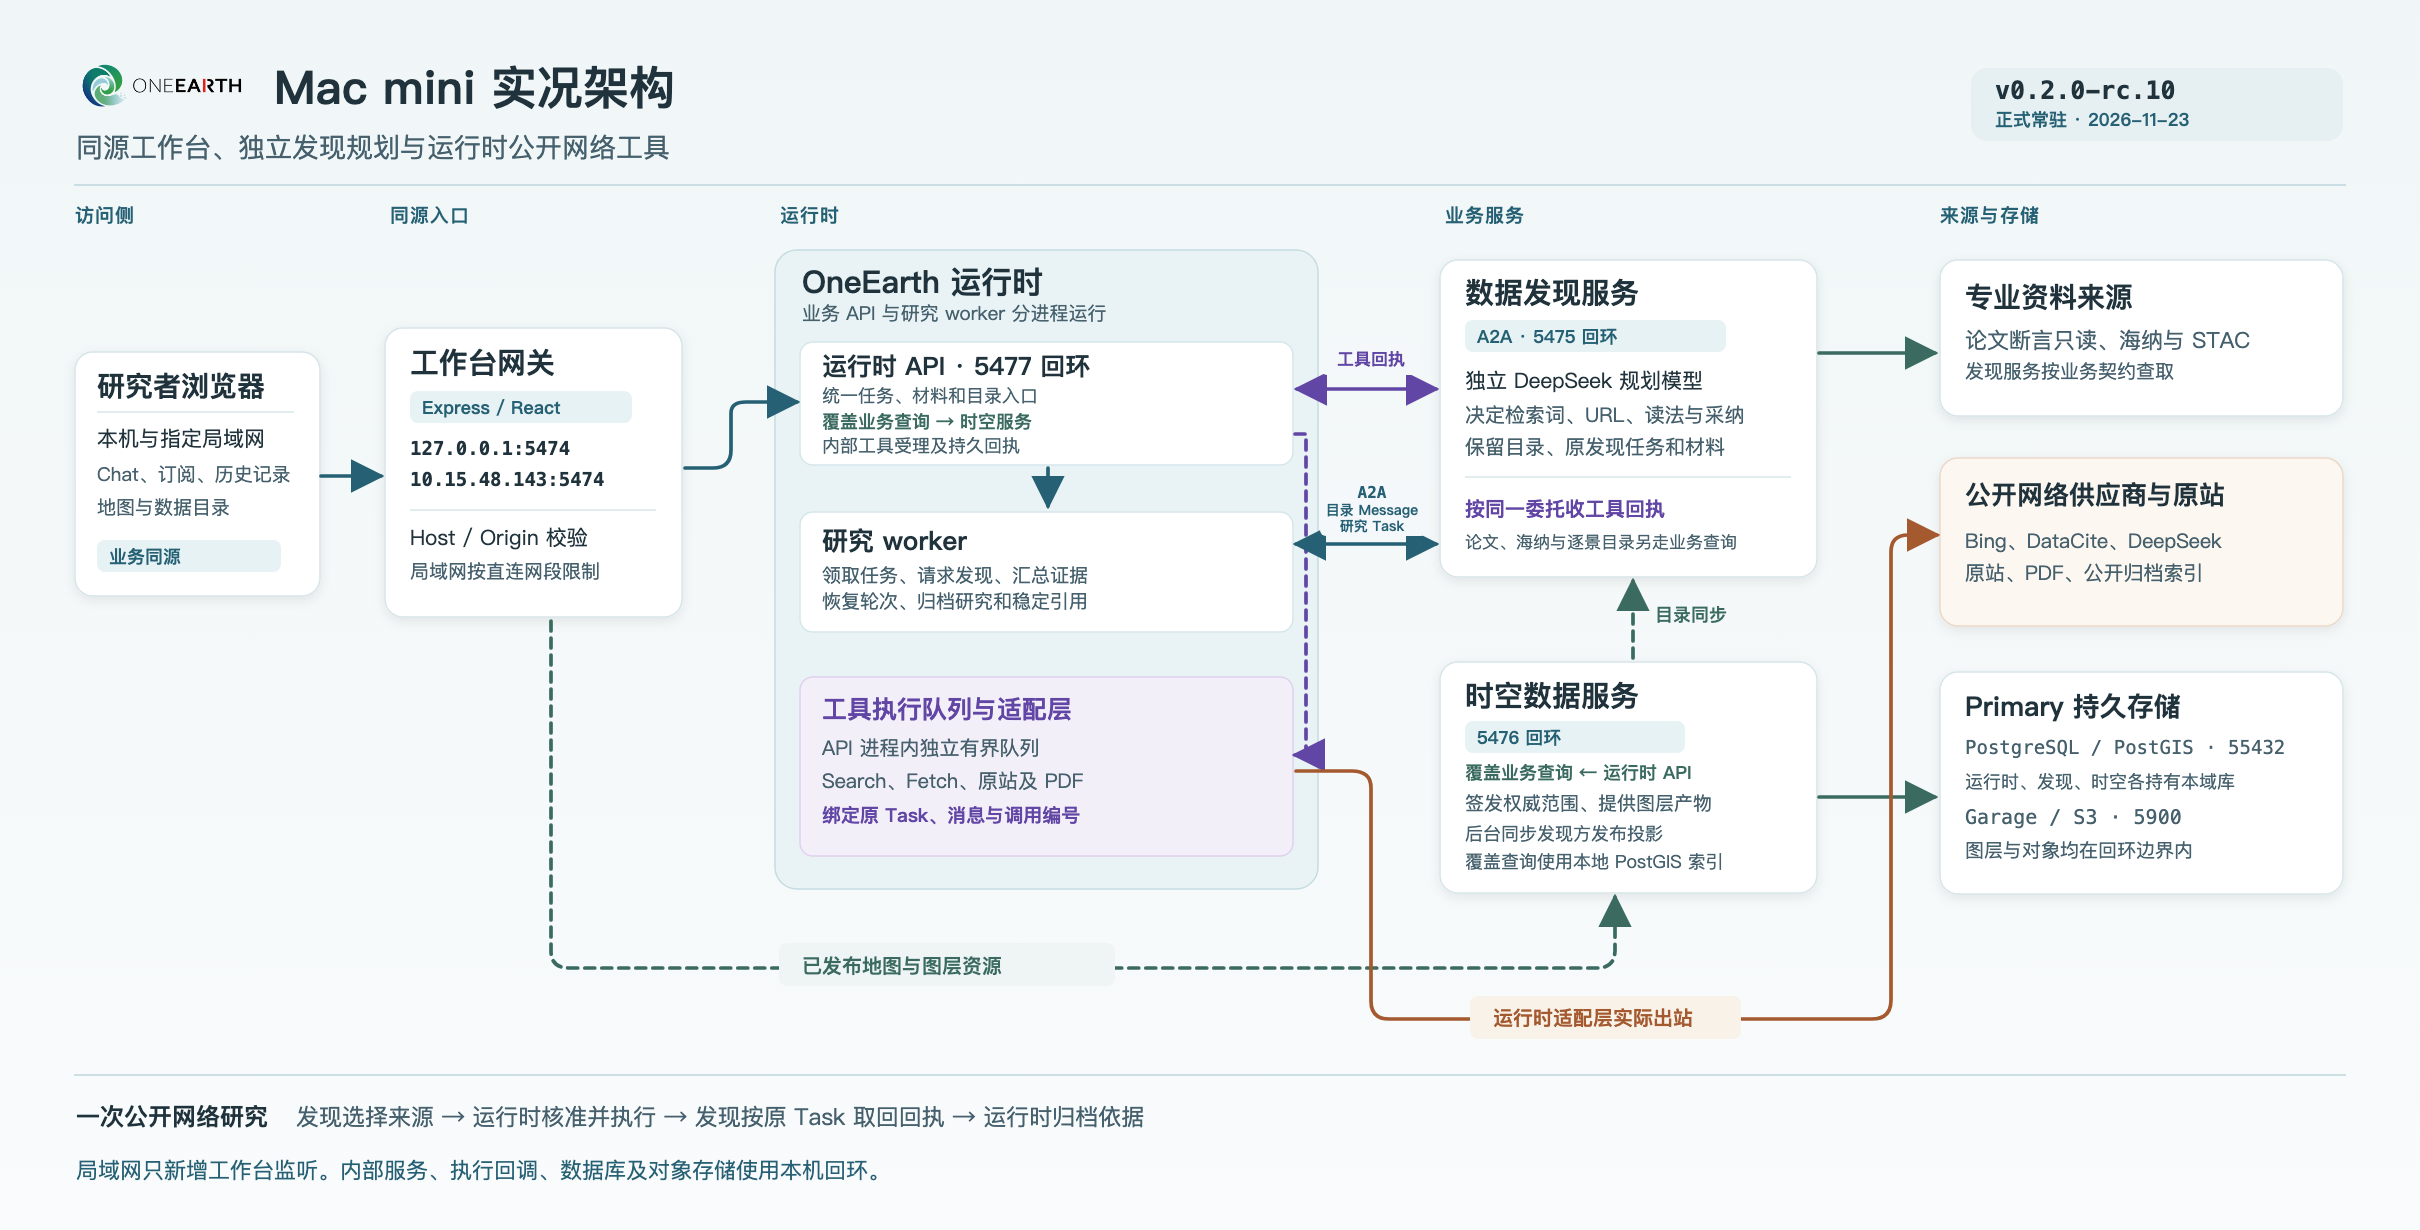
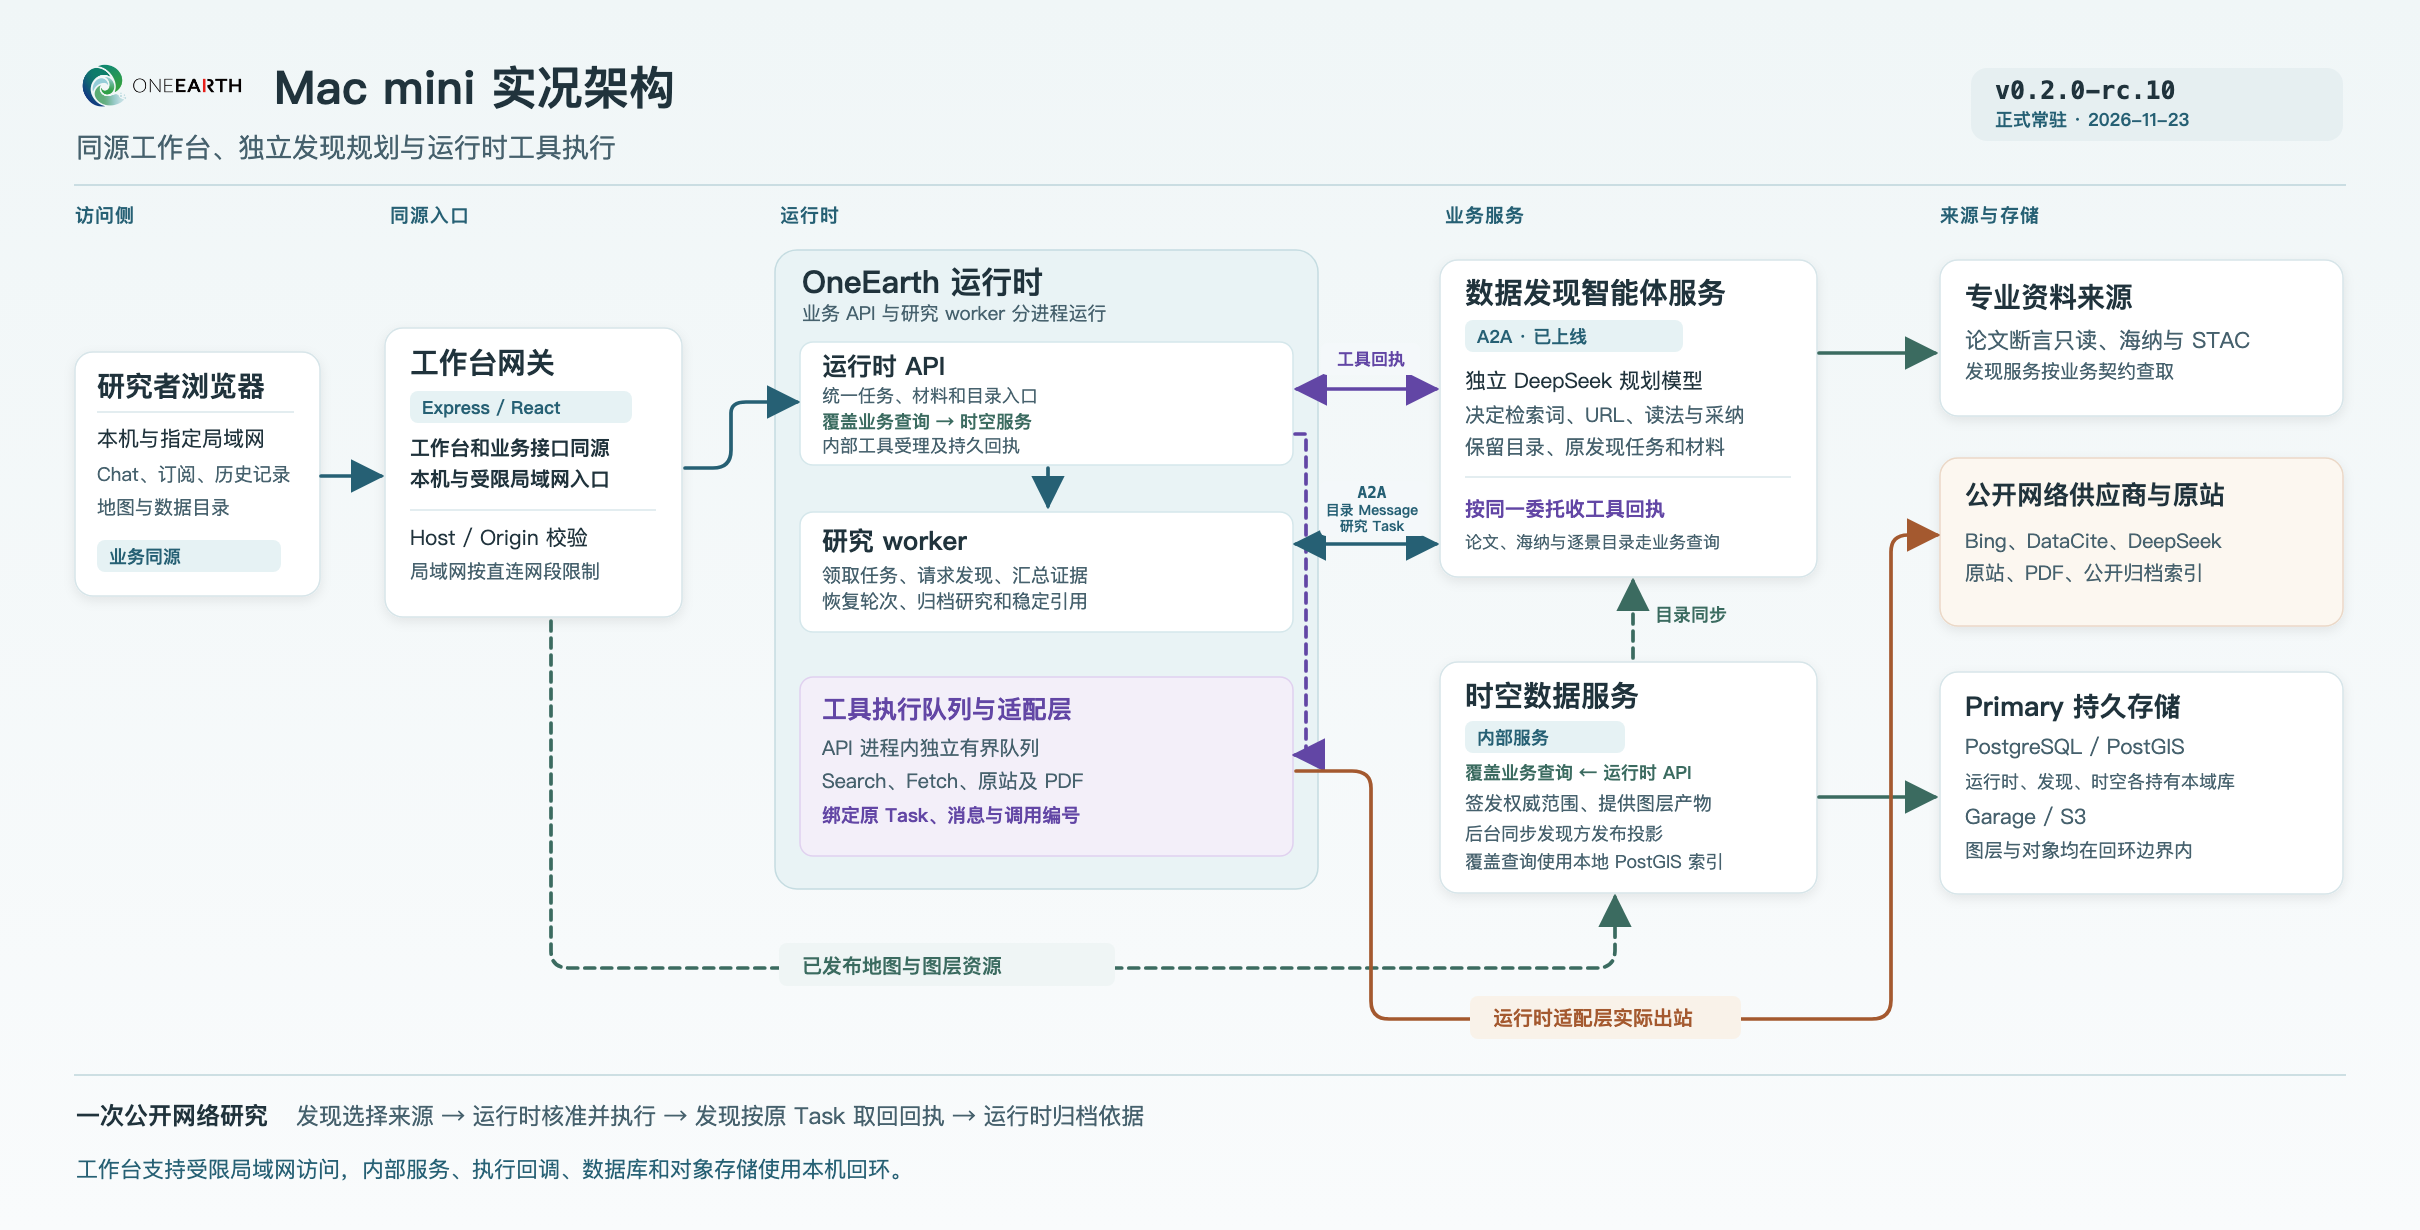
Publish OneEarth architecture without deployment addresses

diff --git a/src/domain/server-access.test.ts b/src/domain/server-access.test.ts
@@ -14,21 +14,21 @@ function allowed(host: string, origin?: string, configured = "") {
 
 test("local access and SSH tunnels remain available by default", () => {
   for (const host of ["localhost:5174", "127.0.0.1:5175", "[::1]:5174"]) assert.equal(allowed(host, "http://" + host).passed, true);
-  assert.equal(allowed("10.15.48.143:5174").status, 403);
+  assert.equal(allowed("192.0.2.143:5174").status, 403);
 });
 
 test("LAN access permits only configured hosts, with the matching browser origin", () => {
-  const config = "10.15.48.143, YXMac-minideMac-mini.local";
-  for (const host of ["10.15.48.143:5174", "yxmac-minidemac-mini.local:5174"]) {
+  const config = "192.0.2.143, Workbench.Example";
+  for (const host of ["192.0.2.143:5174", "workbench.example:5174"]) {
     assert.equal(allowed(host, "http://" + host, config).passed, true);
     assert.equal(allowed(host, undefined, config).passed, true);
-    for (const origin of ["http://evil.example", "null", "http://10.15.48.143:9999"]) assert.equal(allowed(host, origin, config).status, 403);
+    for (const origin of ["http://evil.example", "null", "http://192.0.2.143:9999"]) assert.equal(allowed(host, origin, config).status, 403);
   }
-  assert.equal(allowed("10.15.48.143.evil.example:5174", undefined, config).status, 403);
-  assert.equal(allowed("10.15.48.144:5174", undefined, config).status, 403);
+  assert.equal(allowed("192.0.2.143.evil.example:5174", undefined, config).status, 403);
+  assert.equal(allowed("192.0.2.144:5174", undefined, config).status, 403);
 });
 
 test("malformed hosts and wildcard configuration are rejected", () => {
   for (const host of ["", "localhost@evil.example", "localhost/path", "localhost:5174.evil", "localhost:99999", "localhost:5174#ignored", "localhost?ignored"]) assert.equal(allowed(host).status, 403);
-  for (const config of ["*", "http://10.15.48.143", "10.15.48.143:5174", "*.example.com"]) assert.throws(() => accessGuard(config), /ONEEARTH_ALLOWED_HOSTS/);
+  for (const config of ["*", "http://192.0.2.143", "192.0.2.143:5174", "*.example.com"]) assert.throws(() => accessGuard(config), /ONEEARTH_ALLOWED_HOSTS/);
 });

diff --git a/docs/架构与接口现状.md b/docs/架构与接口现状.md
@@ -2,13 +2,17 @@
 
 # OneEarth 架构与接口现状
 
-Mac mini 自 2026-11-23 11:34:46（上海时间）运行 **v0.2.0-rc.10**，源码 `7d44a0b`，发布目录为 `~/Library/Application Support/OneEarth Next/releases/v0.2.0-rc.10-7d44a0b`。工作台同时提供[本机入口](http://127.0.0.1:5474/)和[局域网入口](http://10.15.48.143:5474/)。局域网监听指定 Wi-Fi 接口 `en1` 的实际 IPv4，只接收该直连网段，并沿用 Host 与同源 Origin 校验。5475、5476、5477、55432、5900 继续使用本机回环。设置页显示当前版本。[rc.10 横版架构实况 PNG](diagrams/oneearth-mac-mini-rc10.png) · [正式验收记录](../evidence/product/ACCEPTANCE.md#mac-mini-rc10-公开网络工具与局域网正式发布)
+Mac mini 自 2026-11-23 11:34:46（上海时间）运行 **v0.2.0-rc.10**，源码 `7d44a0b`，发布目录为 `~/Library/Application Support/OneEarth Next/releases/v0.2.0-rc.10-7d44a0b`。工作台支持本机回环和指定局域网访问。局域网监听绑定指定网络接口，只接收直连网段来源，并沿用 Host 与同源 Origin 校验。5475、5476、5477、55432、5900 继续使用本机回环。设置页显示当前版本。[rc.10 横版架构实况 PNG](diagrams/oneearth-mac-mini-rc10.png) · [正式验收记录](../evidence/product/ACCEPTANCE.md#mac-mini-rc10-公开网络工具与局域网正式发布)
 
 数据触达主导航默认隐藏，可在设置中启用。目录提供分类浏览与已有链接，资料查找可用 Chat。案例页保留四张可视化卡，科学问题区仅有标题。森林与 C40 可从海纳数据集详情上球，降水可选年月取自本部署发布目录。Chat 通过已匹配的来源卡附加已登记的观测文件版本，可直接读取原始 NetCDF。下文保留各阶段的验收口径。[发现渠道范围上线](../evidence/product/ACCEPTANCE.md#mac-mini-发现渠道范围正式发布) · [数据触达发布](../evidence/product/ACCEPTANCE.md#mac-mini-数据触达浏览入口静态发布) · [目录架构梳理](#数据触达现行架构梳理) · [观测资料发布](../evidence/product/ACCEPTANCE.md#mac-mini-chat-观测资料入口静态发布) · [KEO 常驻切换](../evidence/product/ACCEPTANCE.md#mac-mini-日常入口的-keo-文件读取)
 
+## 公开逻辑架构
+
+[README 横版主图](diagrams/oneearth-public-architecture.png)在 rc.10 在运关系旁预留了数据处理智能体服务。它与数据发现智能体服务是并列的服务边界，拟由运行时通过 A2A 委托处理并接收结果。处理服务及其连线为预留设计，待实现。已发布接口见[现行接口索引](#现行接口索引)。
+
 ## rc.10 图注
 
-[横版架构实况](diagrams/oneearth-mac-mini-rc10.png)对应当前 Mac mini 发布。目标设计和各发布快照可在[图索引](diagrams/README.md)分别查看。
+[横版架构实况](diagrams/oneearth-mac-mini-rc10.png)仅记录当前 Mac mini 的在运关系。公开逻辑图、目标设计和各发布快照可在[图索引](diagrams/README.md)分别查看。
 
 - **任务提交与领取。** 工作台的提交经网关抵达运行时 API，先写入运行时 PostgreSQL。独立 worker 从同库按事务领取可执行任务或已到期的续行步骤，再写入结果和事件。图中运行时 API 指向 worker 的箭头表示持久化交接。[任务提交与领取实现](../server/postgres-task-store.ts)
 - **研究取证与浏览预览。** 研究中的定向补读与开放查找仍经发现 A2A。发现决定读取范围，运行时适配层实际执行获准的公开读取并归档可追溯证据。浏览器显式打开来源、查看已保存依据或调用同源预览各走展示路径。将网页材料纳入研究证据须经带回执的研究取证。地图发布资源经网关转给时空服务，覆盖范围的业务查询经运行时 API 转给时空服务。[发现契约](发现服务-A2A.md#指定来源补读) · [预览路由](../server/source-preview.ts) · [网关](../server/index.ts)

diff --git a/evidence/product/ACCEPTANCE.md b/evidence/product/ACCEPTANCE.md
@@ -11,7 +11,7 @@
 
 ## Mac mini rc.10 公开网络工具与局域网正式发布
 
[2 lines of base64/hex data omitted]
 
 **正式研究门槛。** 11:17:17 先把已签收 `b34fc5c` 切到原回环入口，使用原 primary 和静态页面。独立 Chrome 通过同一自然 Landsat 问法触发生产工作台。首笔 `374eaade-a034-4175-a67f-2824541958bf` 因两次规划包含 `fallback:null` 未启动工具。11:22:36 切到 `418b25f` 后，同题复验 `ee7ed6c1-b9a5-4417-a1af-ce6d210cea9a` 因两次规划用 `scope` 代替 `mode` 未启动工具。两笔研究与等待状态原样保留。修订补齐模型提示的规范对象和字段修复说明，兼容缺省等义的 `null` 及仅出现一次、值合法的 `scope`。双字段、未知来源、额外字段和非法回退组合仍拒绝。两笔四段原始规划分别离线重放，各只执行公开网络，独立验收复跑一致。
 

diff --git a/docs/diagrams/README.md b/docs/diagrams/README.md
@@ -1,8 +1,12 @@
 # OneEarth 架构与界面图索引
 
+## 公开逻辑主图
+
+[OneEarth 横版逻辑架构图](oneearth-public-architecture.png)为 [README](../../README.md#当前工作台) 主图。图以 rc.10 的在运关系为基础，灰紫色虚框和连线标出预留的数据处理智能体服务。设计拟由运行时经 A2A 委托处理并接收结果。[逻辑图说明](../架构与接口现状.md#公开逻辑架构)
+
 ## 在运实况
 
-[Mac mini v0.2.0-rc.10 横版实况图](oneearth-mac-mini-rc10.png)对应正式发布源码 `7d44a0b`。它记录现行工作台入口、运行时、独立发现、时空和存储的调用关系。图中任务提交与领取、研究取证和浏览预览各有图注。[架构现状与 rc.10 图注](../架构与接口现状.md#rc10-图注) · [正式验收](../../evidence/product/ACCEPTANCE.md#mac-mini-rc10-公开网络工具与局域网正式发布)
+[Mac mini v0.2.0-rc.10 横版实况图](oneearth-mac-mini-rc10.png)对应正式发布源码 `7d44a0b`。图中仅画 rc.10 已发布的调用关系，工作台入口和内部服务以逻辑名称标记。任务提交与领取、研究取证与浏览预览另有图注。[架构现状与 rc.10 图注](../架构与接口现状.md#rc10-图注) · [正式验收](../../evidence/product/ACCEPTANCE.md#mac-mini-rc10-公开网络工具与局域网正式发布)
 
 ## 目标与阶段设计
 
